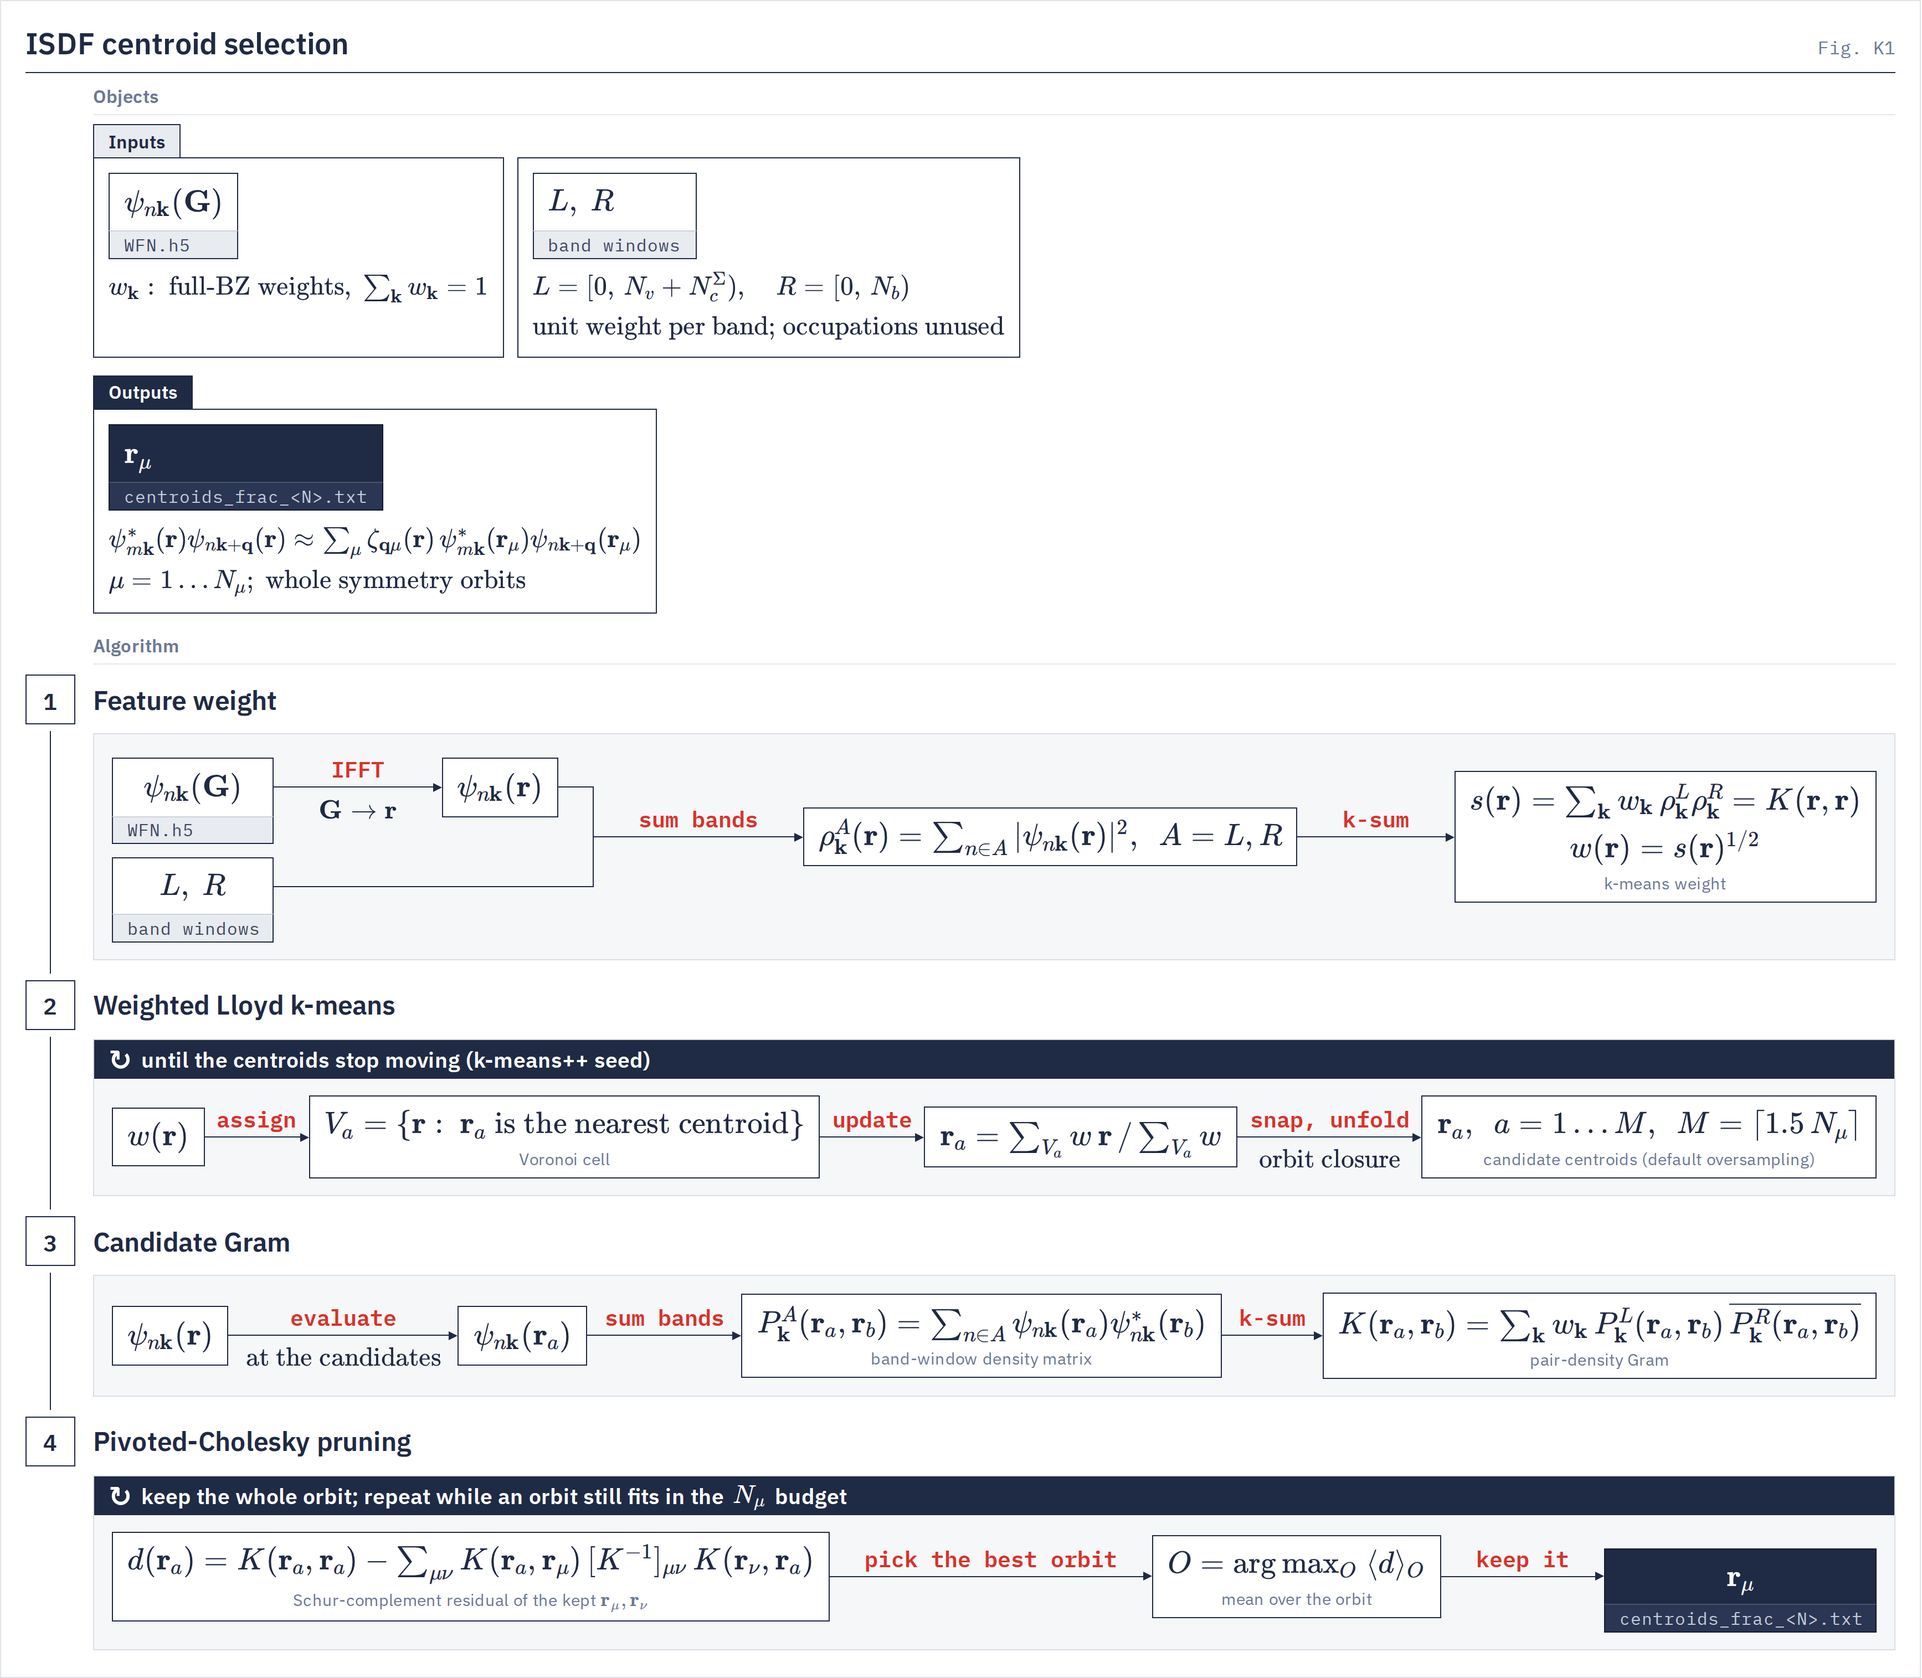
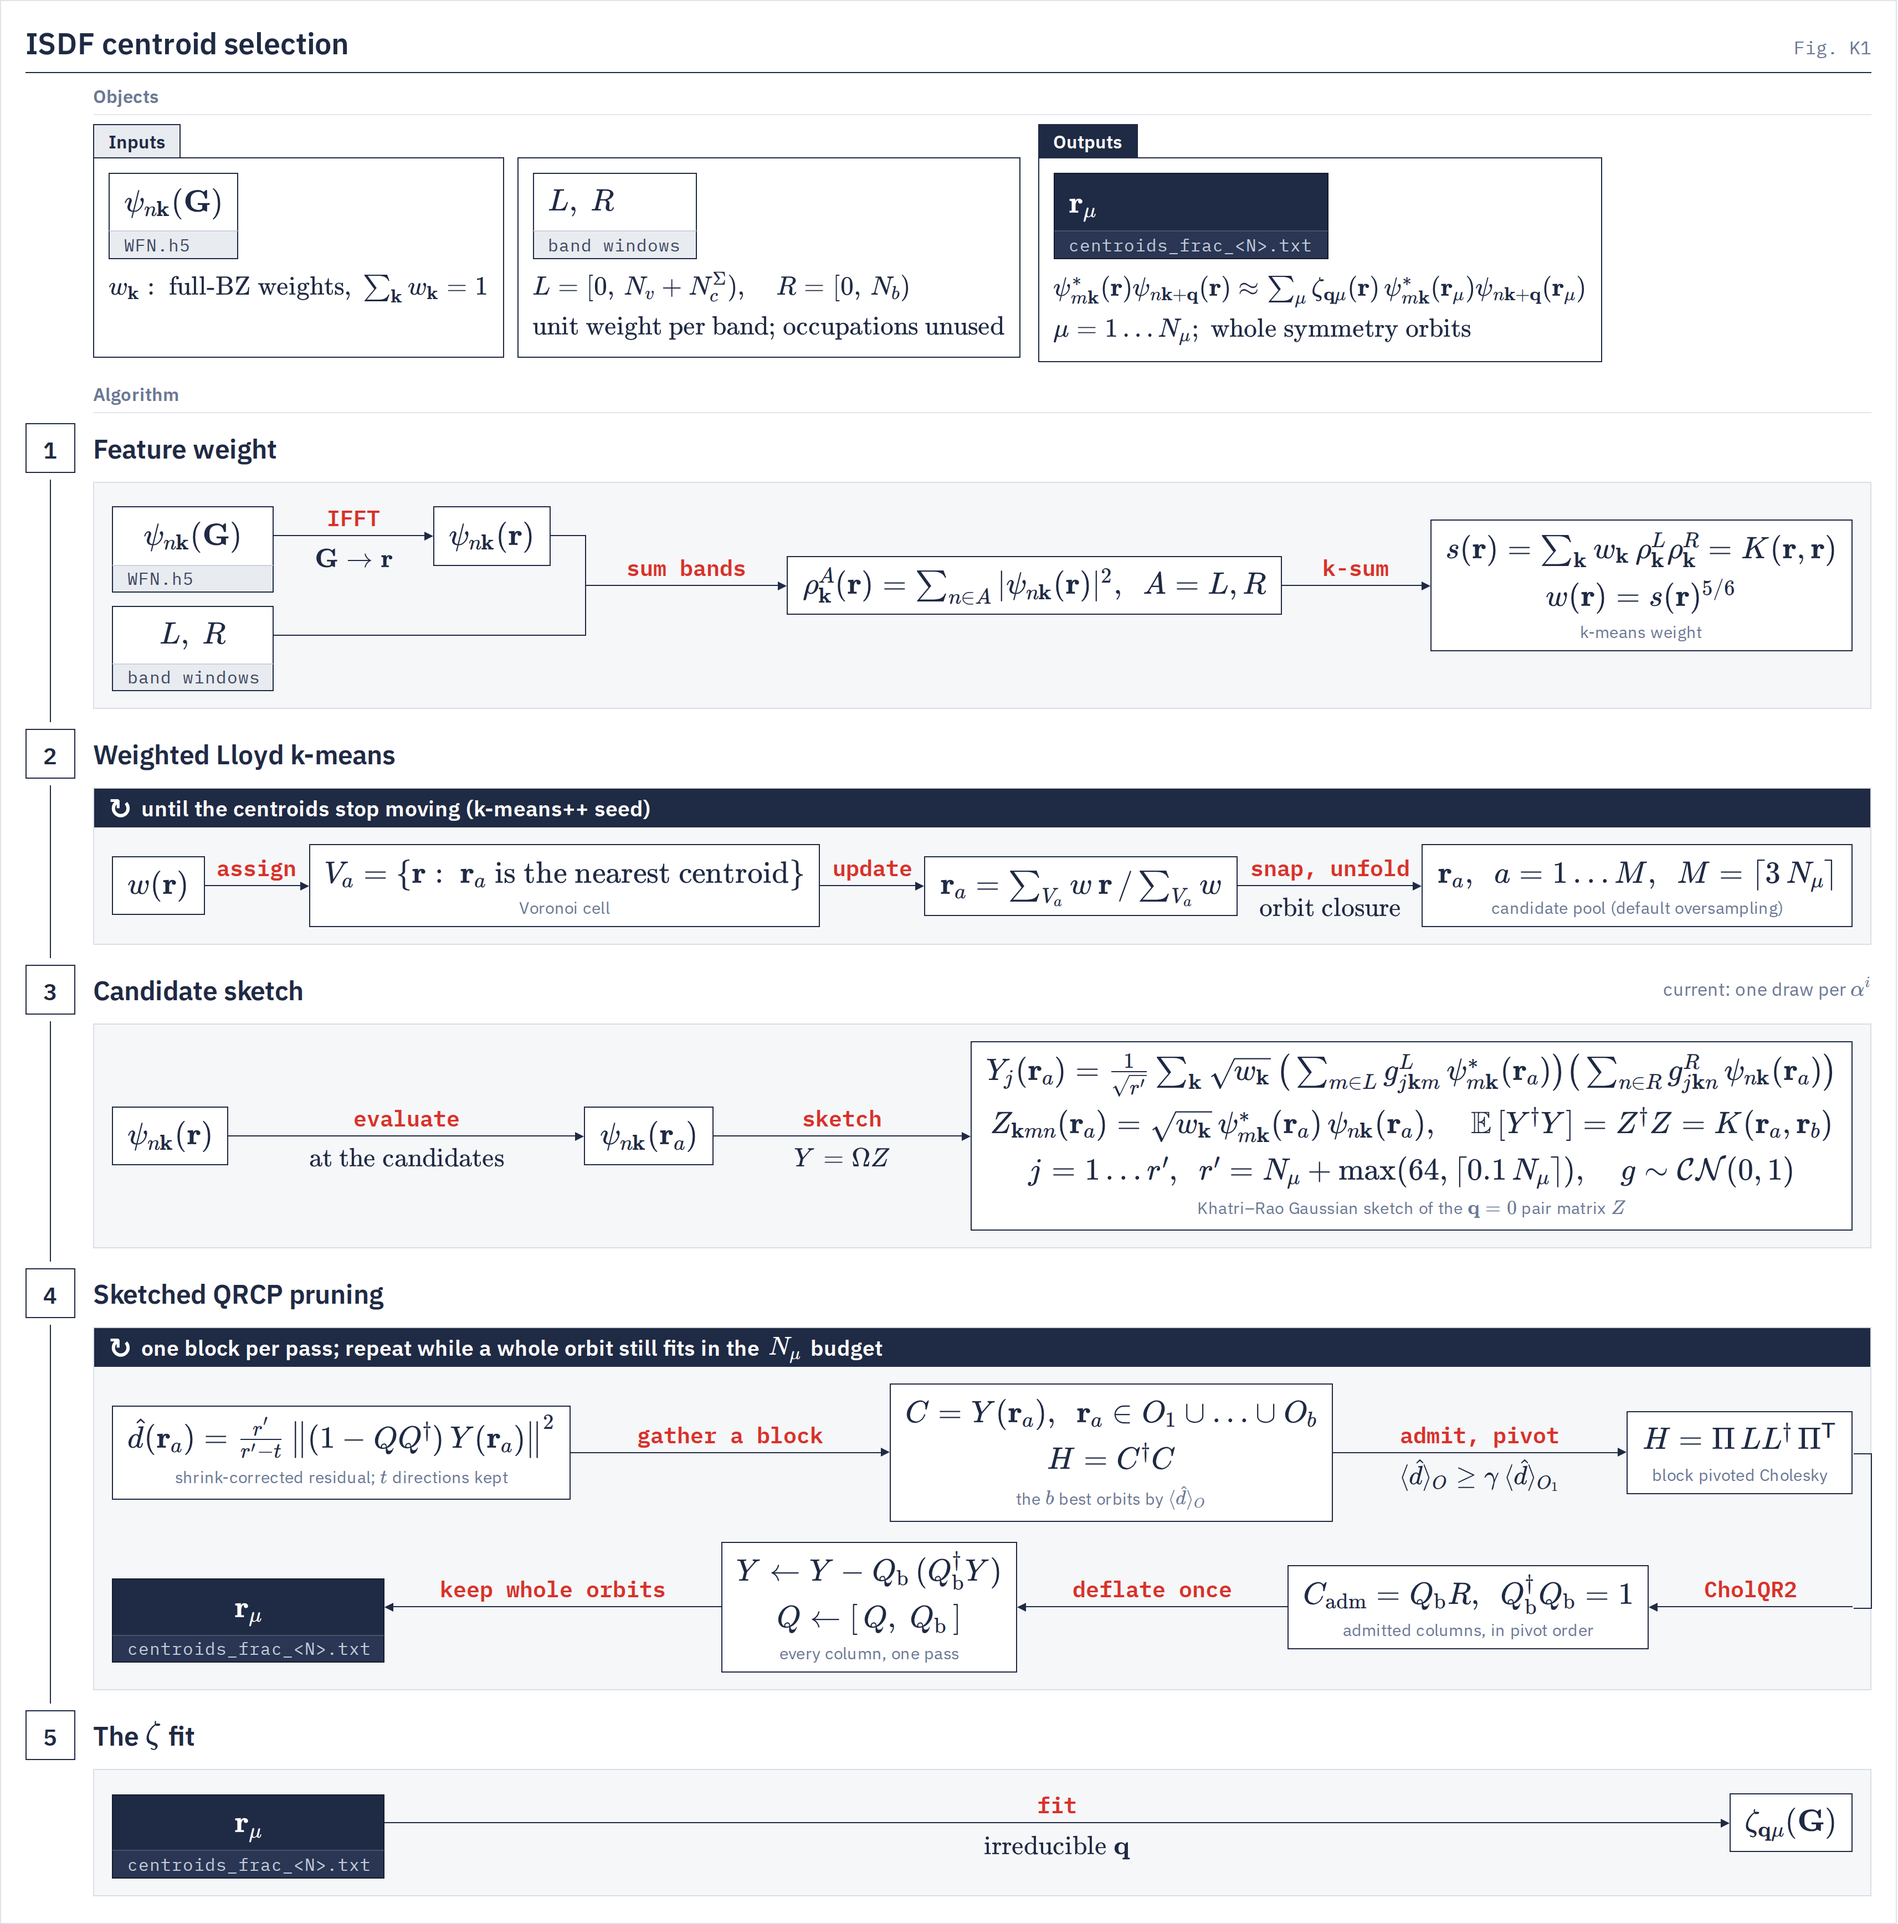
manual: sync 2026-11-05 14:35

diff --git a/manual/figures_src/centroid-selection/k1.js b/manual/figures_src/centroid-selection/k1.js
@@ -1,0 +1,107 @@
+// Fig. K1 — ISDF centroid selection, the sketched-QRCP selector (docs/assets/figures/k1.png;
+// used by docs/theory/centroid-selection.md and docs/utilities/centroids.md). Render: bash make_k1.sh (this folder).
+//
+// A figure-kit algorithm spec. The kit, the KaTeX harness and the shared macros (window.LORRAX_MACROS) live in the
+// lorrax_flowcharts project (~/projects/lorrax_flowcharts: figure-kit/, render/, specs/_shared.js); this file replaces
+// lorrax_flowcharts/specs/k1.js, which still draws the retired dense-Gram pivoted-Cholesky prune.
+//
+// Source: LORRAX branch claude/rqrcp-centroids @ 0cab74596 (src/centroid/). The dense M x M Gram and its pivoted Cholesky
+// (centroid/pivoted_cholesky.py) are deleted; the sketched QRCP is the only selector.
+// Stage 1: sampling_metric.build_feature_metric_diagonal (s = K(r,r)); kmeans_cli._resolve_weight :323, w = s^P with
+//          P = --weight-power, default 5/6 (:72, :361), so Lloyd's point density ~ w^(3/5) = s^(1/2).
+// Stage 2: kmeans_isdf.weighted_kmeans_jax (Lloyd, k-means++ seed); kmeans_cli._snap_and_unfold :374;
+//          M = ceil(3 N_mu) (--oversample 3.0, :32; M_cand :510).
+// Stage 3: sketch_select.build_sketch_q0_via_loadwfns :425 (module docstring :1-60). Y = Omega Z, Khatri-Rao Gaussian:
+//          Y_j(a) = r'^(-1/2) sum_k sqrt(w_k) (sum_{m in L} g^L_jkm psi*_mk(a)) (sum_{n in R} g^R_jkn psi_nk(a)),
+//          g ~ CN(0,1) from jax.random.fold_in on (k, row, --seed), never stored beyond one k; E[Y^H Y] = Z^H Z = K.
+//          r' = N + max(64, ceil(0.1 N)) (sketch_rows_default :135, --sketch-rows). Current mode (--density-mode current):
+//          Z_i(a) = <Psi^L(a)|alpha^i|Psi^R(a)>, one independent draw per component, E[Y^H Y] = sum_i Z_i^H Z_i
+//          (sketch_vertices :236) -- the stage note.
+// Stage 4: sketch_select.sketch_block_select :763 (block kernel _select_block_kernel :562, deflation _deflate_kernel :737).
+//          Per block: orbits scored by the mean shrink-corrected residual d_hat = d r'/(r'-t) over members above the floor
+//          (sqrt(eps) max d0, :838-840); the top b orbits' columns C gathered, H = C^H C; orbits admitted in order while
+//          their in-block score >= gamma x the leading score (--sketch-gamma 0.7) and they fit the point budget, each member
+//          pivoted by pivoted Cholesky on H, largest residual first; the admitted directions orthonormalized by CholQR2;
+//          Y <- Y - Q (Q^H Y) once. Stops when a block admits nothing (:869). A member under the floor is kept with its
+//          orbit but adds no direction (not drawn). Whole orbits only: candidates.emit_complete_groups :249.
+// Stage 5: the consumer, the zeta fit of the GW run (Fig. G1, docs/theory/parallel-algorithms.md; docs/theory/isdf.md §2):
+//          zeta_q mu(G) on the irreducible q. Drawn as its own stage so the block loop strip of stage 4 does not cover it.
+// Kept from the retired K1 (lorrax_flowcharts/specs/k1.js, rounds 3-5): objects, stage 1 and stage 2 layout, captions.
+window.SPECS = window.SPECS || {};
+window.SPECS.k1 = {
+  title: 'ISDF centroid selection',
+  label: 'Fig. K1',
+  // Inputs and Outputs side by side: keeps the five-stage figure near the old K1's 1734 x 1515 css px
+  objectsLayout: 'top-inline',
+  macros: Object.assign({}, window.LORRAX_MACROS, {
+    '\\ra': '\\mathbf{r}_{a}', '\\rb': '\\mathbf{r}_{b}', '\\dhat': '\\hat d', '\\Qb': 'Q_{\\mathrm b}'
+  }),
+
+  objects: {
+    psiG: { kind: 'input', math: '\\psi_{n\\bk}(\\bG)', file: 'WFN.h5',
+      definition: ['w_{\\bk}:\\ \\text{full-BZ weights},\\ \\textstyle\\sum_{\\bk}w_{\\bk}=1'] },
+    LR: { kind: 'input', math: 'L,\\ R', file: 'band windows',
+      definition: ['L=[0,\\,N_v+N^{\\Sigma}_c),\\quad R=[0,\\,N_b)',
+                   '\\text{unit weight per band; occupations unused}'] },
+    rmu: { kind: 'output', math: '\\rmu', file: 'centroids_frac_<N>.txt',
+      definition: ['\\psi^{*}_{m\\bk}(\\br)\\psi_{n\\bk+\\bq}(\\br)\\approx\\textstyle\\sum_{\\mu}\\zeta_{\\bq\\mu}(\\br)\\,\\psi^{*}_{m\\bk}(\\rmu)\\psi_{n\\bk+\\bq}(\\rmu)',
+                   '\\mu=1\\ldots \\Nmu;\\ \\text{whole symmetry orbits}'] }
+  },
+
+  stages: [
+    { number: '1', title: 'Feature weight',
+      rows: [
+        [ '@psiG', { arrow: 'IFFT', equation: '\\bG\\to\\br' }, '\\psi_{n\\bk}(\\br)' ],
+        [ '@LR' ] ],
+      thenJoin: [
+        { arrow: 'sum bands', equation: '' },
+        '\\rho^{A}_{\\bk}(\\br)=\\textstyle\\sum_{n\\in A}|\\psi_{n\\bk}(\\br)|^{2},\\ \\ A=L,R',
+        { arrow: 'k-sum', equation: '' },
+        { box: ['s(\\br)=\\textstyle\\sum_{\\bk}w_{\\bk}\\,\\rho^{L}_{\\bk}\\rho^{R}_{\\bk}=K(\\br,\\br)', 'w(\\br)=s(\\br)^{5/6}'], desc: 'k-means weight' } ] },
+
+    { number: '2', title: 'Weighted Lloyd k-means', loop: 'until the centroids stop moving (k-means++ seed)',
+      rows: [[
+        'w(\\br)',
+        { arrow: 'assign', equation: '' },
+        { box: 'V_a=\\{\\br:\\ \\ra\\ \\text{is the nearest centroid}\\}', desc: 'Voronoi cell' },
+        { arrow: 'update', equation: '' },
+        '\\ra=\\textstyle\\sum_{V_a}w\\,\\br\\,/\\sum_{V_a}w',
+        { arrow: 'snap, unfold', equation: '\\text{orbit closure}' },
+        { box: '\\ra,\\ \\ a=1\\ldots M,\\ \\ M=\\lceil 3\\,\\Nmu\\rceil', desc: 'candidate pool (default oversampling)' } ]] },
+
+    { number: '3', title: 'Candidate sketch', note: 'current: one draw per $\\alpha^i$',
+      rows: [[
+        '\\psi_{n\\bk}(\\br)',
+        { arrow: 'evaluate', equation: '\\text{at the candidates}' },
+        '\\psi_{n\\bk}(\\ra)',
+        { arrow: 'sketch', equation: 'Y=\\Omega Z' },
+        // Z is never formed: its definition rides in the sketch box (line 2), not in a box of its own
+        { box: ['Y_j(\\ra)=\\tfrac{1}{\\sqrt{r\'}}\\textstyle\\sum_{\\bk}\\sqrt{w_{\\bk}}\\,\\big(\\sum_{m\\in L}g^{L}_{j\\bk m}\\,\\psi^{*}_{m\\bk}(\\ra)\\big)\\big(\\sum_{n\\in R}g^{R}_{j\\bk n}\\,\\psi_{n\\bk}(\\ra)\\big)',
+                'Z_{\\bk mn}(\\ra)=\\sqrt{w_{\\bk}}\\,\\psi^{*}_{m\\bk}(\\ra)\\,\\psi_{n\\bk}(\\ra),\\quad \\mathbb{E}\\,[Y^{\\dagger}Y]=Z^{\\dagger}Z=K(\\ra,\\rb)',
+                'j=1\\ldots r\',\\ \\ r\'=\\Nmu+\\max(64,\\lceil 0.1\\,\\Nmu\\rceil),\\quad g\\sim\\mathcal{CN}(0,1)'],
+          desc: 'Khatri–Rao Gaussian sketch of the $\\mathbf q=0$ pair matrix $Z$' } ]] },
+
+    { number: '4', title: 'Sketched QRCP pruning',
+      loop: 'one block per pass; repeat while a whole orbit still fits in the $\\Nmu$ budget',
+      rows: [[
+        { box: '\\dhat(\\ra)=\\frac{r\'}{r\'-t}\\,\\big\\|(1-QQ^{\\dagger})\\,Y(\\ra)\\big\\|^{2}', desc: 'shrink-corrected residual; $t$ directions kept' },
+        { arrow: 'gather a block', equation: '' },
+        { box: ['C=Y(\\ra),\\ \\ \\ra\\in O_1\\cup\\ldots\\cup O_b', 'H=C^{\\dagger}C'], desc: 'the $b$ best orbits by $\\langle\\hat d\\rangle_O$' },
+        { arrow: 'admit, pivot', equation: '\\langle\\dhat\\rangle_{O}\\ge\\gamma\\,\\langle\\dhat\\rangle_{O_1}' },
+        { box: 'H=\\Pi\\,LL^{\\dagger}\\,\\Pi^{\\mathsf T}', desc: 'block pivoted Cholesky' },
+        { wrap: true },
+        { arrow: 'CholQR2', equation: '' },
+        { box: 'C_{\\mathrm{adm}}=\\Qb R,\\ \\ \\Qb^{\\dagger}\\Qb=1', desc: 'admitted columns, in pivot order' },
+        { arrow: 'deflate once', equation: '' },
+        { box: ['Y\\leftarrow Y-\\Qb\\,(\\Qb^{\\dagger}Y)', 'Q\\leftarrow[\\,Q,\\ \\Qb\\,]'], desc: 'every column, one pass' },
+        { arrow: 'keep whole orbits', equation: '' },
+        '@rmu' ]] },
+
+    // no-break spaces: the title row is a flex box, which drops plain spaces next to the math
+    { number: '5', title: 'The $\\zeta$ fit', ref: 'Fig. G1',
+      rows: [[
+        '@rmu',
+        { arrow: 'fit', equation: '\\text{irreducible }\\bq' },
+        '\\zeta_{\\bq\\mu}(\\bG)' ]] }
+  ]
+};

diff --git a/manual/docs/utilities/centroids.md b/manual/docs/utilities/centroids.md
@@ -60,7 +60,7 @@ This spin-traced density is the charge density that standard GW screens, and the
 
 <figure class="flowchart" markdown>
 [![ISDF centroid selection](../assets/figures/k1.png)](../assets/figures/k1.png)
-<figcaption><strong>Fig. K1.</strong> The four stages of the selection, left to right in each row: the feature weight $w(\br)$ from the band-window densities, weighted Lloyd k-means for an oversampled candidate pool, the Gaussian sketch of the pair densities on the candidates, and the blocked column-pivoted QR that keeps whole symmetry orbits until the point budget is spent.</figcaption>
+<figcaption><strong>Fig. K1.</strong> The selection and its consumer, top to bottom: the feature weight $w(\br)$ from the band-window densities; weighted Lloyd k-means for an oversampled candidate pool; the Gaussian sketch of the pair densities on the candidates; the blocked column-pivoted QR, which keeps whole symmetry orbits until the point budget is spent; and the $\zeta$ fit on the selected points.</figcaption>
 </figure>
 
 The weight is the diagonal of the $\bq = 0$ pair-density Gram over the left and right band windows $L$ and $R$, $s(\br) = \sum_\bk w_\bk\,\rho^L_\bk(\br)\,\rho^R_\bk(\br) = K(\br,\br)$, and Lloyd's mass is $w(\br) = s(\br)^{5/6}$, which places points with density $\propto s^{1/2}$; occupations do not enter. Lloyd places $\lceil 3\,N_\mu\rceil$ candidates as orbit representatives. Each representative is snapped to the FFT grid and then unfolded by the space group of the decorated atoms, so every orbit lands exactly on grid points. Column-pivoted QR on a Gaussian sketch of the candidates' pair densities, whose expected Gram is $K(\br_a,\br_b)$, then keeps the candidates that add the most independent directions, admitting or rejecting whole orbits, never single points, until $N_\mu$ points are used. The written set is therefore closed under every spatial operation, including improper and nonsymmorphic ones ([Centroid selection §5](../theory/centroid-selection.md#cs-symmetry)). The objective, the Gram and the limits of the method are on [Centroid selection](../theory/centroid-selection.md); the fit that consumes the points is on [ISDF and V(q)](../theory/isdf.md).
